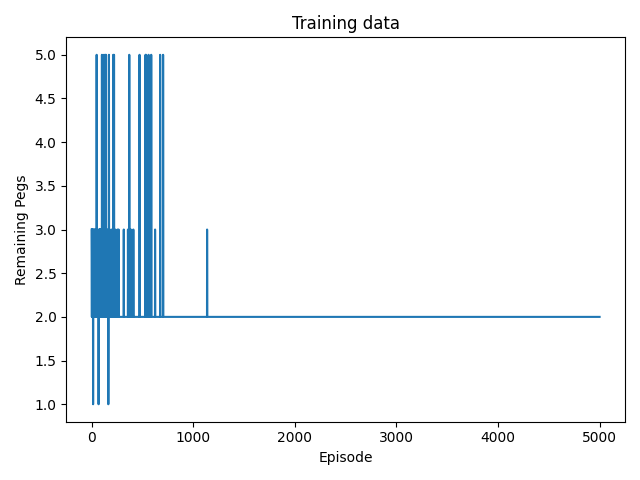
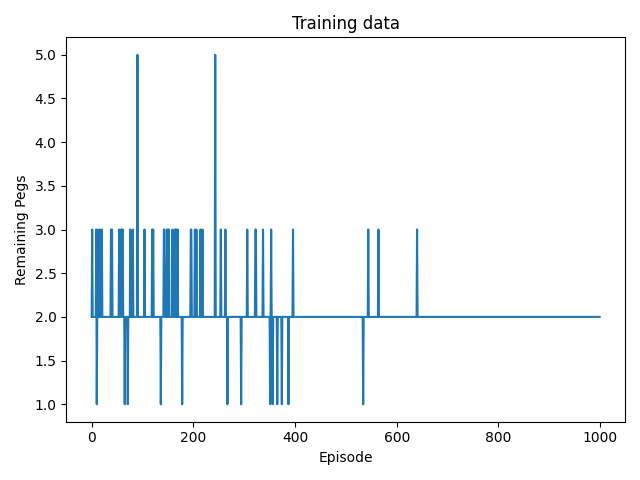
Change coefficients, plot epsilon

diff --git a/src/actor.py b/src/actor.py
@@ -1,8 +1,7 @@
 import random
-from keras import activations
-import tensorflow as tf
 from collections import defaultdict
-import numpy as np
+
+from visualize import Visualize
 
 
 class Actor:
@@ -44,16 +43,16 @@ class Actor:
         self.__epsilon_decay = epsilon_decay
 
         self.__policy = defaultdict(lambda: defaultdict(float))  # Pi(s, a)
+        self.__epsilon_history = []
         self.reset_eligibilities()
+
+    def set_epsilon(self, epsilon):
+        Visualize.plot_epsilon(self.__epsilon_history)
+        self.__epsilon = epsilon
 
     def choose_action(self, state, possible_actions):
         """Epsilon-greedy action selection function."""
         assert bool(possible_actions) is True, 'Possible actions cannot be empty'
-
-        def choose_boltzman(state, possible_actions):
-            action_values = [self.__policy[state][action] for action in possible_actions]
-            action_distribution = activations.softmax(tf.constant([action_values])).numpy()[0]
-            return np.random.choice(possible_actions, 1, p=action_distribution)[0]
 
         def choose_uniform(possible_actions):
             return random.choice(possible_actions)
@@ -62,7 +61,7 @@ class Actor:
             return max(possible_actions, key=lambda action: self.__policy[state][action])
 
         if random.random() < self.__epsilon:
-            return choose_boltzman(state, possible_actions)
+            return choose_uniform(possible_actions)
         return choose_greedy(state, possible_actions)
 
     def update(self, td_error):
@@ -75,6 +74,7 @@ class Actor:
         self.__update_eligibilities()
 
     def __update_policy(self, td_error) -> None:
+        self.__epsilon_history.append(self.__epsilon)
         self.__epsilon *= self.__epsilon_decay
         for state in self.__eligibilities:
             for action, eligibility in self.__eligibilities[state].items():

diff --git a/src/critic/nn_critic.py b/src/critic/nn_critic.py
@@ -3,7 +3,7 @@ import tensorflow as tf
 from keras import backend as K  # noqa
 from keras.layers import Dense, Input
 from keras.models import Sequential
-from keras.optimizers import Adam
+from keras.optimizers import SGD
 
 from .critic import Critic
 
@@ -59,7 +59,7 @@ class NNCritic(Critic):
         model.add(Dense(units=1, activation='linear'))
 
         model.compile(
-            optimizer=Adam(learning_rate=self._learning_rate),
+            optimizer=SGD(learning_rate=self._learning_rate),
             loss='mean_squared_error'
         )
         model.summary()
@@ -87,8 +87,9 @@ class NNCritic(Critic):
 
     def __modify_gradients(self, gradients, td_error):
         for gradient, eligibility in zip(gradients, self.__eligibilities):
+            gradient *= 1 / (2 * td_error)
             eligibility = self._discount_factor * self._trace_decay * eligibility + gradient
-            gradient += td_error * eligibility
+            gradient = td_error * eligibility
         return gradients
 
     def reset_eligibilities(self) -> None:

diff --git a/src/parameters.py b/src/parameters.py
@@ -1,27 +1,30 @@
 from data_classes import Shape
 
+
 # General
-EPISODES = 5000
-VISUALIZE_GAMES = False
+EPISODES = 1000
+VISUALIZE_GAMES = True
 FRAME_DELAY = 1
 
 # Simulated World
 BOARD_TYPE = Shape.Triangle
 SIZE = 4
 HOLES = set([
-    (2, 2),
+    (1, 1),
 ])
 
 # Actor
-ACTOR_LEARNING_RATE = 0.05
-ACTOR_DISCOUNT_FACTOR = 1.0
-ACTOR_TRACE_DECAY = 1.0
-ACTOR_EPSILON = 1.0
-ACTOR_EPSILON_DECAY = 0.999
+ACTOR_LEARNING_RATE = 0.8
+ACTOR_DISCOUNT_FACTOR = 0.95
+ACTOR_TRACE_DECAY = 0.95
+
+ACTOR_EPSILON = 1
+ACTOR_EPSILON_DECAY = 0.9995
 
 # Critic
-USE_TABLE_CRITIC = True
-CRITIC_LEARNING_RATE = 0.05
-CRITIC_DISCOUNT_FACTOR = 1.0
-CRITIC_TRACE_DECAY = 1.0
-CRITIC_NN_DIMENSIONS = (16, 20, 30, 5, 1)
+CRITIC_LEARNING_RATE = 0.3
+CRITIC_DISCOUNT_FACTOR = 0.95
+CRITIC_TRACE_DECAY = 0.95
+
+USE_TABLE_CRITIC = False
+CRITIC_NN_DIMENSIONS = (10, 5, 1)

diff --git a/src/critic/table_critic.py b/src/critic/table_critic.py
@@ -22,7 +22,6 @@ class TableCritic(Critic):
     replace_eligibilities(state, action):
         Replaces trace e(state) with 1.0
     """
-    __max_initial_value = 0.1
 
     def __init__(
         self,
@@ -35,7 +34,7 @@ class TableCritic(Critic):
             discount_factor,  # gamma
             trace_decay,  # lambda
         )
-        self.__values = defaultdict(lambda: random.random() * TableCritic.__max_initial_value)  # V(s)
+        self.__values = defaultdict(lambda: (random.random() - 0.5) * 0.02)  # V(s)
         self.reset_eligibilities()
 
     def _get_value(self, state) -> float:

diff --git a/src/visualize.py b/src/visualize.py
@@ -128,3 +128,15 @@ class Visualize:
         plt.tight_layout()
         plt.savefig('src/results/training_data.png')
         plt.close()
+
+    @staticmethod
+    def plot_epsilon(epsilon_history):
+        plt.title('Epsilon')
+        plt.xlabel('Time steps')
+        plt.ylabel('$\epsilon$')
+
+        plt.plot(epsilon_history, color='tab:blue')
+
+        plt.tight_layout()
+        plt.savefig('src/results/epsilon.png')
+        plt.close()

diff --git a/src/reinforcement_learner.py b/src/reinforcement_learner.py
@@ -77,5 +77,5 @@ class ReinforcementLearner:
 
         if parameters.VISUALIZE_GAMES:
             print('Showing one episode with the greedy strategy.')
-            parameters.ACTOR_EPSILON = 0
+            self.__actor.set_epsilon(0)
             self.__run_one_episode(True)

diff --git a/src/simulated_world.py b/src/simulated_world.py
@@ -25,7 +25,7 @@ class SimulatedWorld:
 
     def __calculate_reward(self) -> int:
         if self.__game_board.pegs_remaining() == 1:
-            return 10
+            return 1
         elif self.__game_board.game_over():
             return -1
         else:
